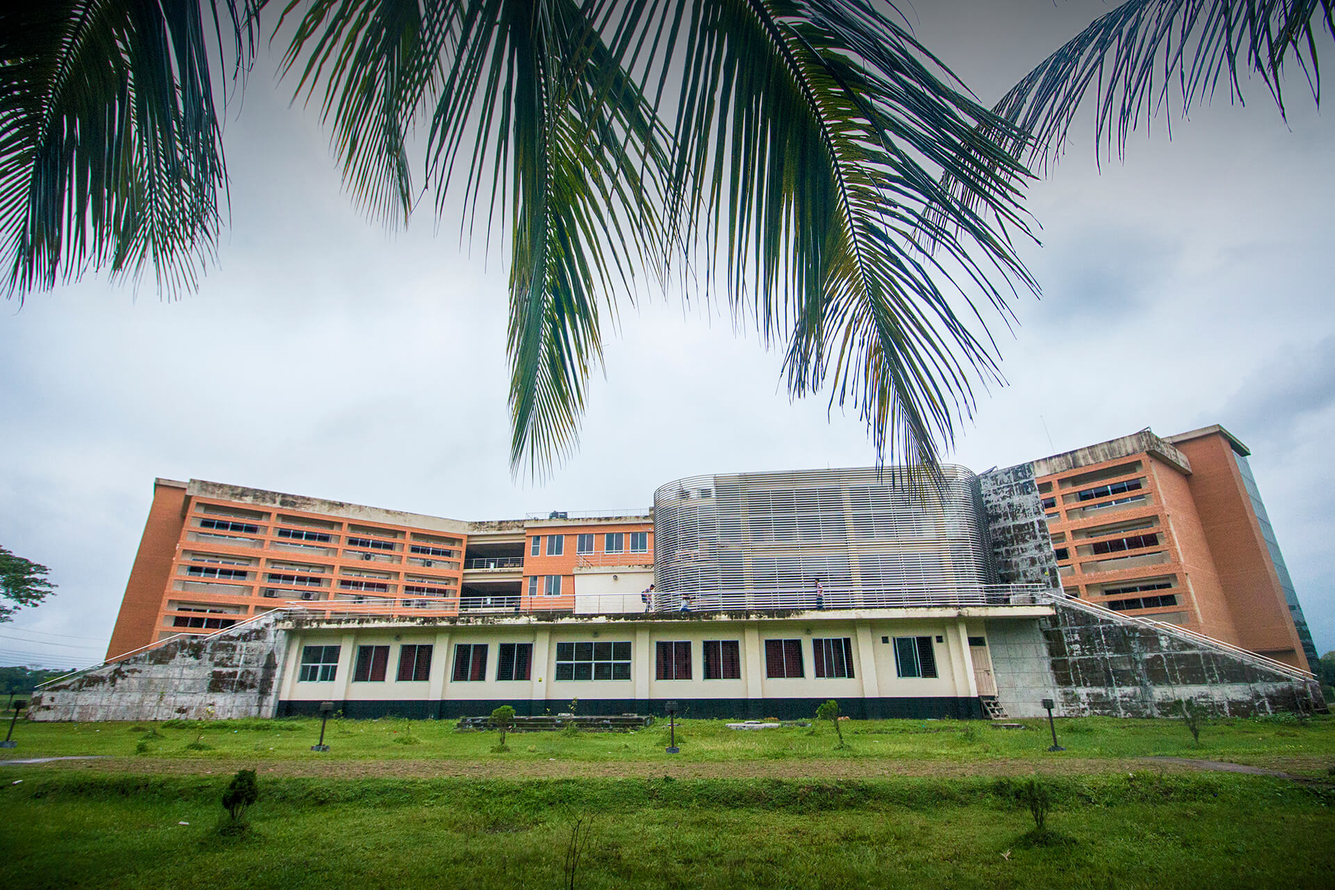
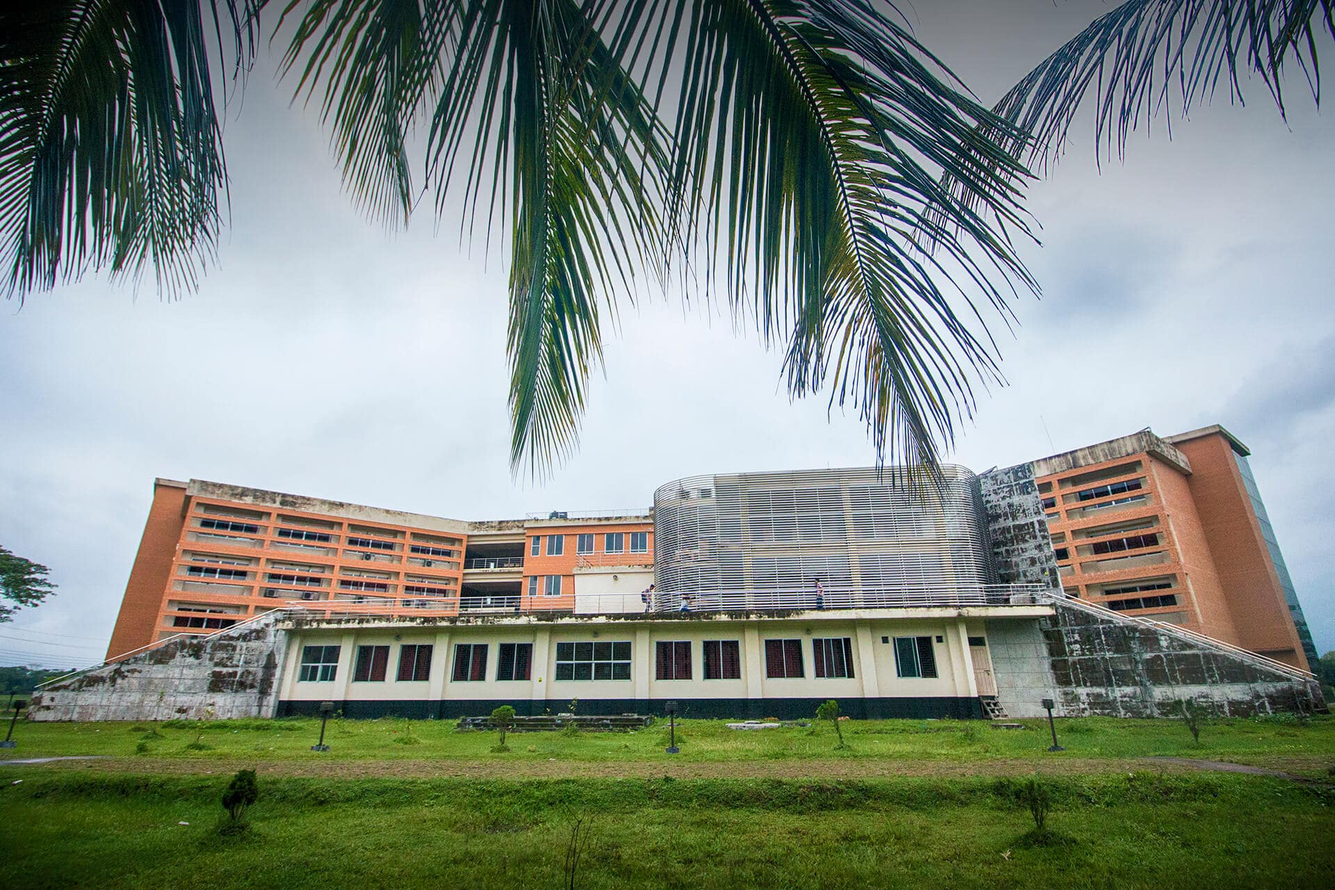
Compressed image and updated info

diff --git a/STT.html b/STT.html
@@ -86,7 +86,7 @@
                             </div>
                             <!--end of col-->
                             <div class="col-12 col-lg-8 col-md-8 order-md-1 pr-md-5 text-left">
-                                <h3 class="h1 mb-0">Bangla Text to Speech</h3>
+                                <h3 class="h1 mb-0">Bangla Speech to Text  </h3>
                                  <ul class="list-inline mb-1">
                                     <li class="list-inline-item">
                                         <a href="https://ocr.sustbanglaresearch.org/" target="_blank" class="btn btn-outline-primary btn-lg">Explore Web Version</a>
@@ -99,13 +99,14 @@
                                     </li>
                                 </ul>
                                 <p class="pr-right">
-                                	This research is aimed on developing a natural sounding Bangla Text to Speech (TTS) synthesis system. The project is funded by the subproject ‘Development of Multi-Platform Speech & Language Processing Software for Bangla’ (CP-3888) under the 'Higher Education Quality Enhancement Project (HEQEP)' of UGC. 
-
-The running system is a poly-phone concatenation based speech synthesis system. We used poly-phones (combination of di-phones and tri-phones) as the phonetic units for this system. Around 4500 poly-phones were required to develop the complete system. The current system contains the recording of 1 (one) female voice. 2 (two) more voices are being developed. 
-
-A good TTS system requires a grapheme-to-phoneme (G2P) module to convert the given texts into pronounceable forms. We developed a state-of-the art encoder-decoder based G2P module which was trained on a large lexicon of 135000 words. Both the encoder and decoder networks consisted of 'Gated Recurrent Units Recurrent Neural Networks' (GRU-RNNs). We released our lexicon in a public Github repository for the Bangla research community.
-
-The next version of the system will contain 2 (two) more voices that will be generated by a Statistical Parametric Speech Synthesis (SPSS) model. For this purpose, we developed a duration model and an acoustic model, both of which are being trained by 'Bidirectional Long-Short-Term-Memory Recurrent Neural Networks' (BLSTM-RNNs). 
+                                	The SUST Bangla Language Processing research team is working on Bangla Speech Processing (Bangla
+Text to Speech – TTS or Speech synthesis, Bangla Speech to Text – STT or Automatic Speech Recognition
+- ASR) etc. In the Bangla Speech to Text research area – the main goal was to develop a prototype of
+Bangla ASR system for Bangla speech recognition on mobile app and web app. The SUST had developed
+and realized the alpha version of the system on the end of the last September 2018. Now we have
+realized the Beta version of the ASR web app. The core technology - LSTM-RNN CTC have been used to
+do the Acoustic Modeling (AM) and 250 hours of speech corpus have been used for training AM of this
+ASR system. The systems are available as web apps and will be also available as mobile apps.
                        </p>
                                
                             </div>

diff --git a/MT.html b/MT.html
@@ -99,11 +99,21 @@
                                     </li>
                                 </ul>
                                 <p class="pr-right">
-                                	This research is aimed on contributing in the machine translation field for English-Bangla language pair. The project is funded by the subproject ‘Development of Multi-Platform Speech & Language Processing Software for Bangla’ (CP-3888) under the 'Higher Education Quality Enhancement Project (HEQEP)' of UGC.
-
-The outcome of this research is a machine translation (MT) system which takes English sentence(s) as input and translates them into Bangla sentence(s). The translation engine is acquired by implementing state of the art Statistical model and Neural Network model. For a good quality MT system, large collection of English-Bangla parallel sentences is required. We used around 400,000 parallel sentences to train our language model; some of which were manually generated by human translators and others are acquired from open source corpus.
-
-We intend to improve the translation quality by performing hybridization of statistical and neural network model.
+                                	In this research a machine translation system is developed which can
+translate English sentence(s) into Bangla. It uses the state of the art
+statistical machine translation approach and neural networks for the
+translation task.
+Current version is trained on a large English-Bangla parallel data.
+Around 4,00,000 parallel sentences have been used as training data and
+significant more as development data. Apart from basic machine
+translation approaches, some newest research has been incorporated with
+the system to enhance the translation quality, namely paraphrase
+extraction, word embeddings and so on. Our system performs
+reasonably well compared to the available machine translation tools
+online.
+The project is funded by the subproject ‘Development of Multi-Platform
+Speech &amp; Language Processing Software for Bangla’ (CP-3888) under
+the &#39;Higher Education Quality Enhancement Project (HEQEP)&#39; of UGC.
                                 </p>
                                
                             </div>

diff --git a/index.html b/index.html
@@ -156,7 +156,8 @@
                                 <!-- <i class="icon-images text-red display-3"></i> -->
                                 <h3 class="h1">Bangla Machine Translation</h3>
                                 <p>
-                                  This research is aimed on contributing in the machine translation field for English-Bangla language pair. The project is funded by the subproject <br> <a href="./MT.html">Read More > </a>
+                                  In this research a machine translation system is developed which can
+                                  translate English sentence(s) into Bangla. It uses the state of the art statistical machine <br> <a href="./MT.html">Read More > </a>
                                 </p>
                                 <ul class="list-inline">
                                     <li class="list-inline-item">
@@ -210,7 +211,8 @@
                                <!--  <i class="icon-images text-red display-3"></i> -->
                                 <h3 class="h1">Bangla Speech to Text</h3>
                                 <p>
-                                	This research is aimed on developing a natural sounding Bangla Text to Speech (TTS) synthesis system. The project is funded by the subproject ‘Development of  <br> 
+                                	The SUST Bangla Language Processing research team is working on Bangla Speech Processing (Bangla
+                                	Text to Speech – TTS or Speech synthesis <br> 
                                 	<a href="./STT.html">Read More > </a>
                                 
                                 <ul class="list-inline">

diff --git a/TTS.html b/TTS.html
@@ -105,7 +105,7 @@ The running system is a poly-phone concatenation based speech synthesis system. 
 
 A good TTS system requires a grapheme-to-phoneme (G2P) module to convert the given texts into pronounceable forms. We developed a state-of-the art encoder-decoder based G2P module which was trained on a large lexicon of 135000 words. Both the encoder and decoder networks consisted of 'Gated Recurrent Units Recurrent Neural Networks' (GRU-RNNs). We released our lexicon in a public Github repository for the Bangla research community.
 
-The next version of the system will contain 2 (two) more voices that will be generated by a Statistical Parametric Speech Synthesis (SPSS) model. For this purpose, we developed a duration model and an acoustic model, both of which are being trained by 'Bidirectional Long-Short-Term-Memory Recurrent Neural Networks' (BLSTM-RNNs). 
+The next version of the system will contain 2 (two) more voices that will be generated by a Statistical Parametric Speech Synthesis (SPSS) model. For this purpose, we developed a duration model and an acoustic model, both of which are being trained by 'Bidirectional Long-Short-Term-Memory Recurrent Neural Networks' (BLSTM-RNNs).
                        </p>
                                
                             </div>

diff --git a/OCR.html b/OCR.html
@@ -100,7 +100,7 @@
                                 </ul>
                                 <p>
                                 	In this research a realistic Bangla OCR has been designed and developed from scratch, which can
- actually recognize printed Bangla script with a very good accuracy. It recognizes Bangla basic and
+actually recognize printed Bangla script with a very good accuracy. It recognizes Bangla basic and
 compound characters, numerals, as well as the frequently used punctuation marks.
 Current version composed of preprocessing, segmentation and recognition steps. We have used
 connected component analysis based two zone approach for character segmentation. Convolutional
